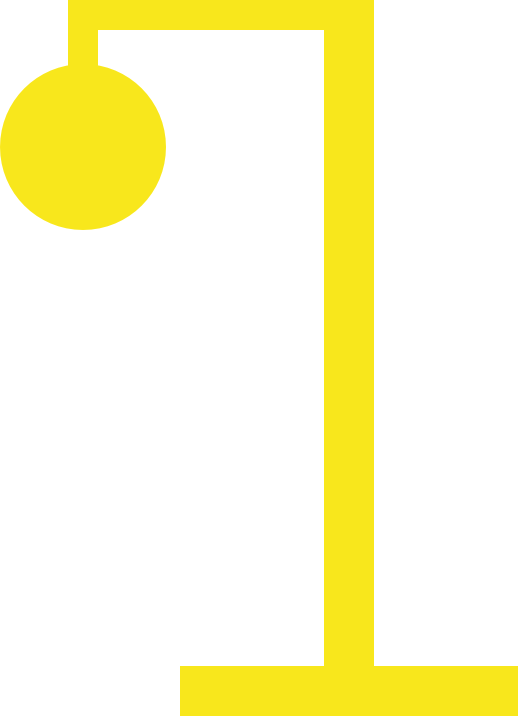
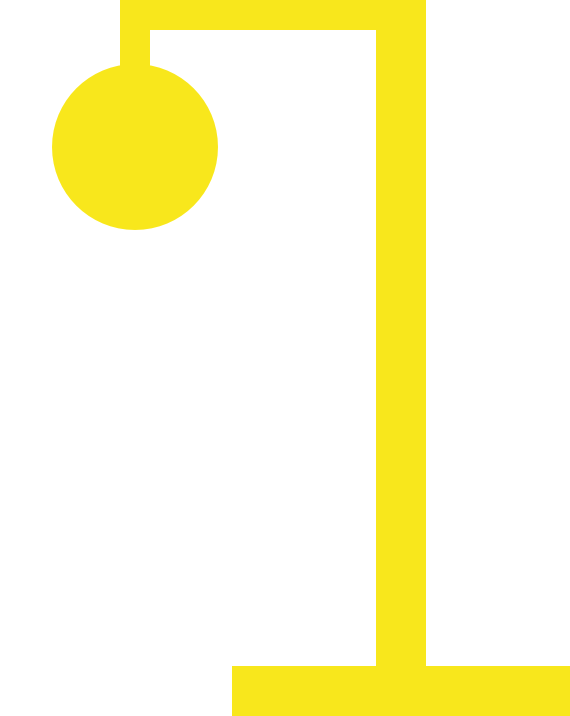
cleanup and additions

diff --git a/3-Hangman/program.js b/3-Hangman/program.js
@@ -25,6 +25,7 @@
 	var wordContainer = document.querySelector('#word');
 	var missesContainer = document.querySelector('#incorrectletters');
 	var directionsContainer = document.querySelector('#directions');
+	var hangman = document.querySelector('#hangman-image');
 	var gameStarted = false;
 	var word;
 	var wordArray;
@@ -32,7 +33,7 @@
 	var enteredUniqueLetters = [];
 	var enteredUniqueMatchingLetters = [];
 	var enteredNonMatchingLetters = [];
-	var guesses = 6;
+	var guesses = 0;
 	var lost = false;
 	var won = false;
 
@@ -118,13 +119,14 @@
 	}
 
 	function updateMissContainer() {
-		guesses = guesses - 1;
+		guesses = guesses + 1;
+		hangman.src = 'img/' + guesses + '.png';
 		var htmlSnippet = '';
 		for (var i = 0; i < enteredNonMatchingLetters.length; i++) {
-			htmlSnippet += enteredNonMatchingLetters[i] + ', ';
+			htmlSnippet = htmlSnippet + enteredNonMatchingLetters[i] + ', ';
 		}
-		missesContainer.innerHTML = htmlSnippet;
-		if (guesses === 0) {
+		missesContainer.innerHTML = htmlSnippet.replace(/,\s*$/, '');
+		if (guesses === 6) {
 			lost = true;
 			directionsContainer.innerHTML = "You lose";
 		}

diff --git a/3-Hangman/index.html b/3-Hangman/index.html
@@ -16,10 +16,10 @@
 			</div>
 		</section>
 		<section  id="gamescreen">
-			<div id="directions">Guess the next letter</div>
+			<div id="directions">Guess the word by entering letters A-Z</div>
 			<div class="centerpiece clearfix">
 				<div class="hangman">
-					<img src="img/0.png" alt="hangman" />
+					<img src="img/0.png" id="hangman-image" alt="hangman" />
 				</div>
 				<div id="word"></div>
 			</div>
